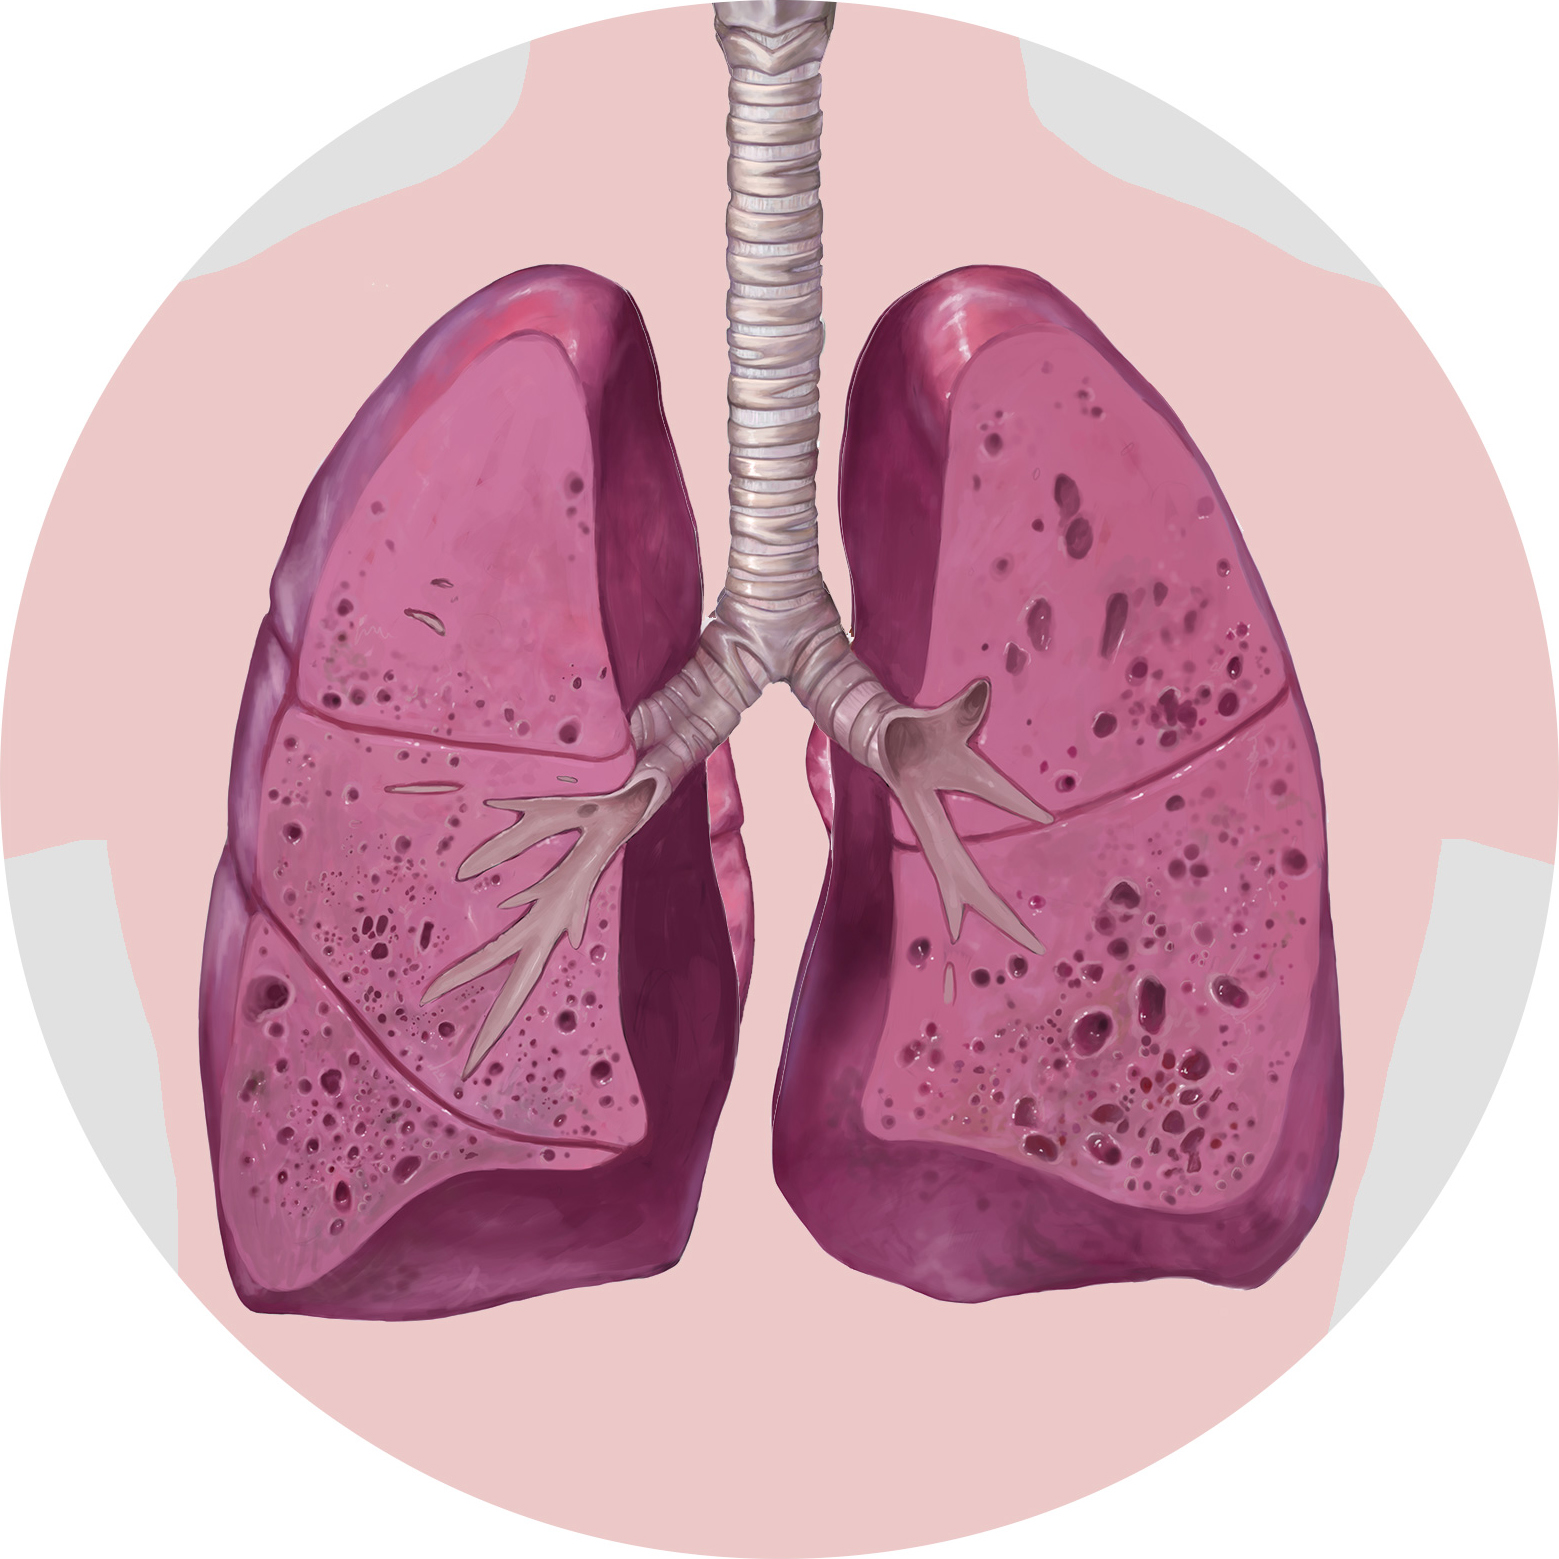
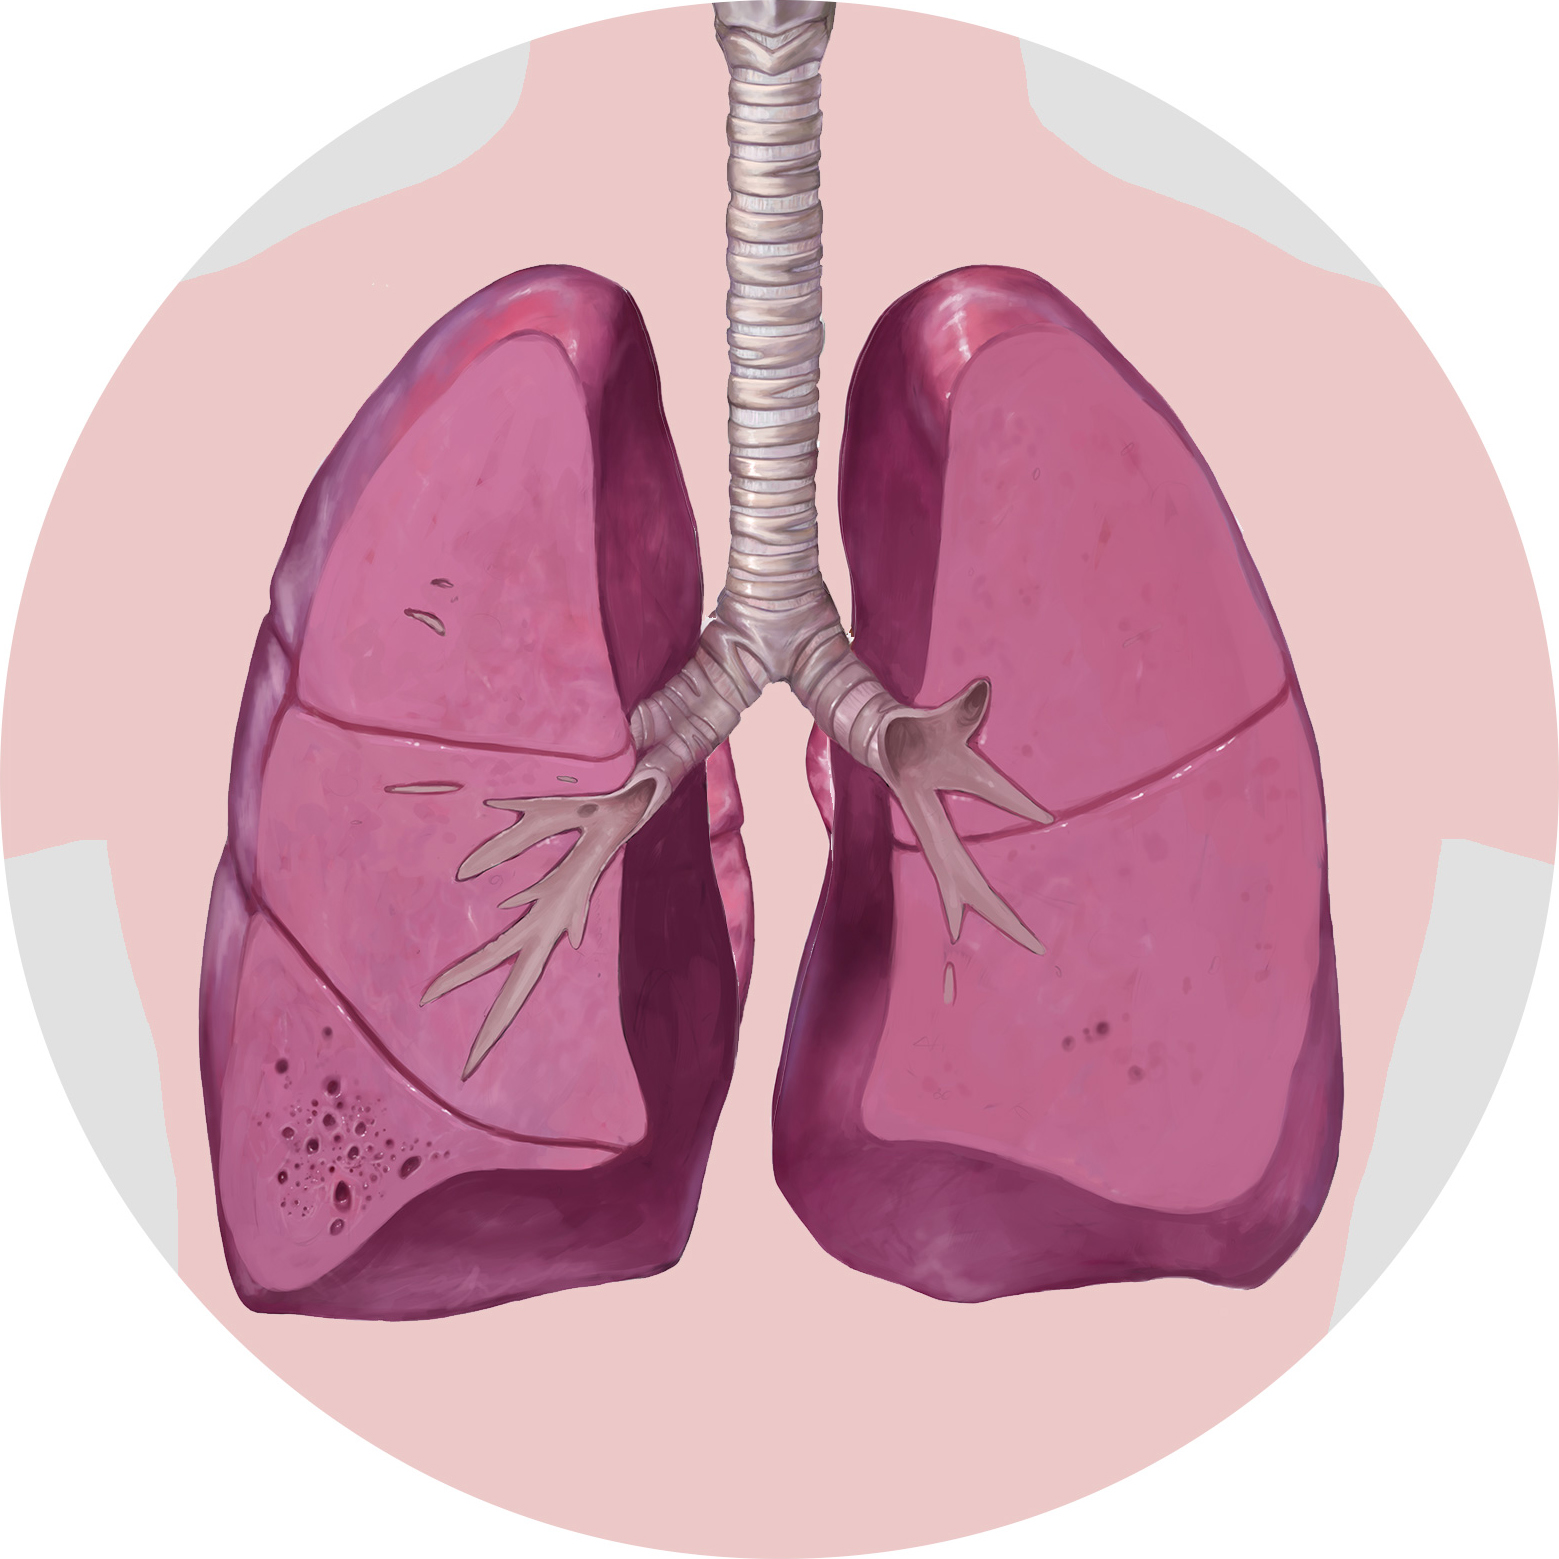
Thursday

diff --git a/src/app/section3/section3.component.html b/src/app/section3/section3.component.html
@@ -86,14 +86,24 @@
             <img src="assets/elements/lungs000-1.png" id="slide-0" alt="">
             <img src="assets/elements/lungs025.jpg" id="slide-25" alt="">
             <img src="assets/elements/lungs026.png" id="slide-26" alt="">
-            <img src="assets/elements/lungs027.jpg" id="slide-27" alt="">
-            <img src="assets/elements/lungs028.png" id="slide-28" alt="">
-            <!-- <img src="assets/elements/lungs029.jpg" id="slide-29" alt="">
-            <img src="assets/elements/lungs030.jpg" id="slide-30" alt=""> -->
+            <img src="assets/elements/lungs028.jpg" id="slide-28" alt="">
+            <img src="assets/elements/lungs027.png" id="slide-27" alt="">
+            <img src="assets/elements/lungs030.jpg" id="slide-30" alt="">
+            <img src="assets/elements/lungs031.jpg" id="slide-31" alt="">
+            <img src="assets/elements/lungs029.png" id="slide-29" alt="">
           </div>
           <div id="placeholder-26" class="col-12 placeholder"></div>
           <div id="placeholder-27" class="col-12 placeholder"></div>
           <div id="placeholder-28" class="col-12 placeholder"></div>
+          <div class="col-12 placeholder"></div>
+          <div class="text block-text col-8">
+            <p>Some areas of the lung may be replaced by thick-walled cystic airspaces called <strong>“honeycombs,”</strong> which may be seen on HRCT scans. </p><br/>
+            <p>Honeycombing means there is complete destruction of healthy lung tissue, and the areas of the lung where honeycombing forms no longer allow oxygen to enter the bloodstream. Honeycombing and scarring of the lungs result in shortness of breath, coughing, and other symptoms of IPF.</p>
+          </div>
+          <div id="placeholder-29" class="col-12 placeholder"></div>
+          <div class="col-12 placeholder"></div>
+          <div id="placeholder-31" class="col-12 placeholder"></div>
+          <div class="col-12 placeholder"></div>
           <div id="animation-3-3-end" class="placeholder">
             <img src="assets/elements/lungs000-1.png" id="slide-0" alt="">
           </div>

diff --git a/src/app/shared/scroll.service.ts b/src/app/shared/scroll.service.ts
@@ -78,12 +78,11 @@ export class ScrollService {
     // Section 3-3
     this.position($('#container-3-3'), $('#animation-3-3'), pos);
     this.visibilityOn($('#placeholder-26'), $('#animation-3-3 #slide-26'), pos);
-    // this.visibility($('#placeholder-19-2'), $('#placeholder-20'), $('#animation-3-1 #slide-19-2'), true, pos);
-    // this.visibility($('#placeholder-19-3'), $('#placeholder-20'), $('#animation-3-1 #slide-19-3'), true, pos);
-    // this.visibilityOn($('#placeholder-20-1'), $('#animation-3-1 #slide-20-1'), pos);
-    // this.visibilityOn($('#placeholder-20-2'), $('#animation-3-1 #slide-20-2'), pos);
-    // this.visibilityOn($('#placeholder-20-3'), $('#animation-3-1 #slide-20-3'), pos);
-
+    this.visibilityOn($('#placeholder-27'), $('#animation-3-3 #slide-27'), pos);
+    this.fade($('#placeholder-28'), $('#animation-3-3 #slide-28'), 0, 1, pos);
+    this.visibilityOn($('#placeholder-29'), $('#animation-3-3 #slide-29'), pos);
+    this.fade($('#placeholder-29'), $('#animation-3-3 #slide-30'), 0, 1, pos);
+    this.fade($('#placeholder-31'), $('#animation-3-3 #slide-31'), 0, 1, pos);
 
     /* Section 4 */
     this.fadeMid($('#square-4'), 100, 100, 0, 1, pos);
